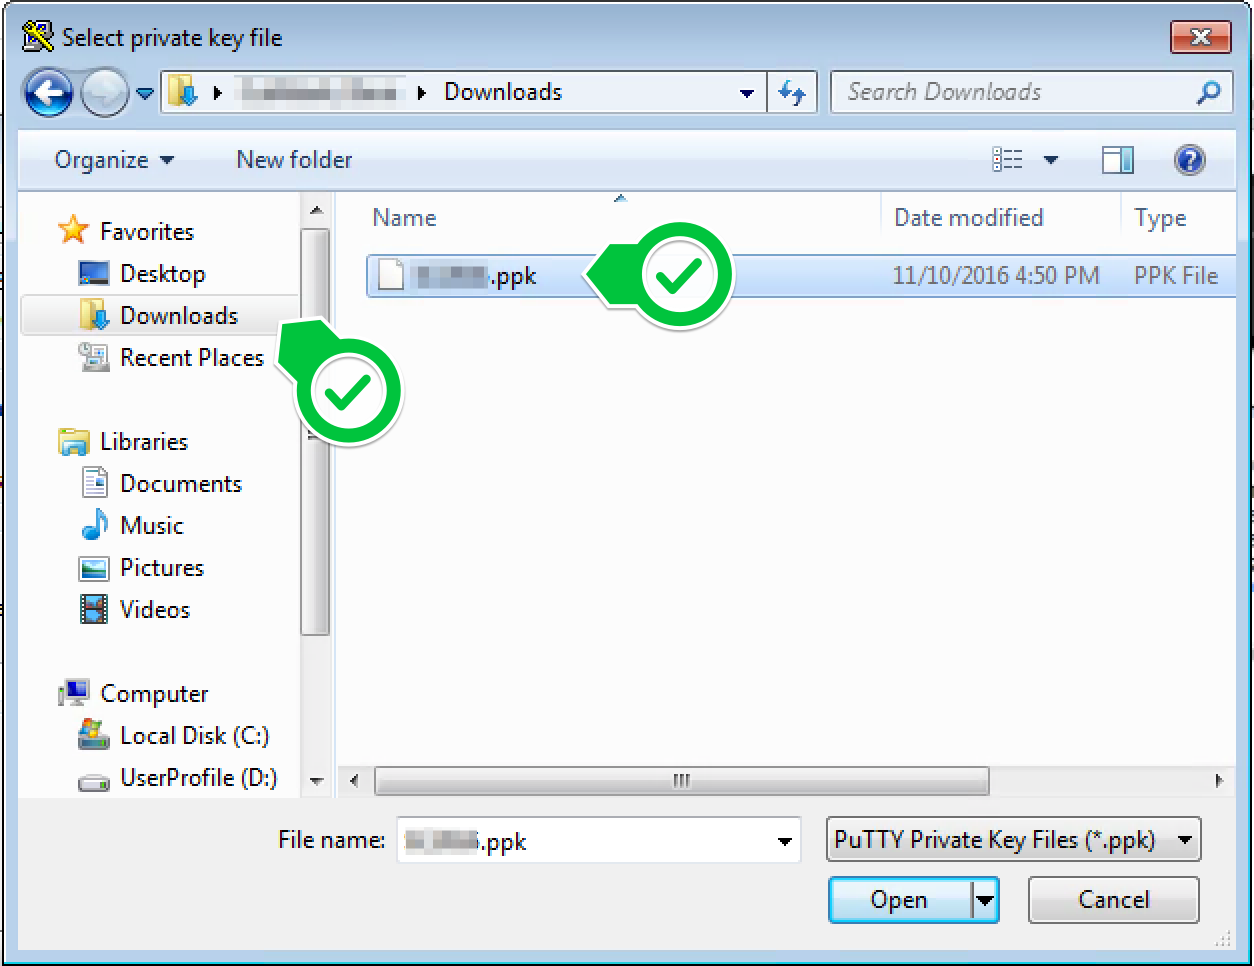
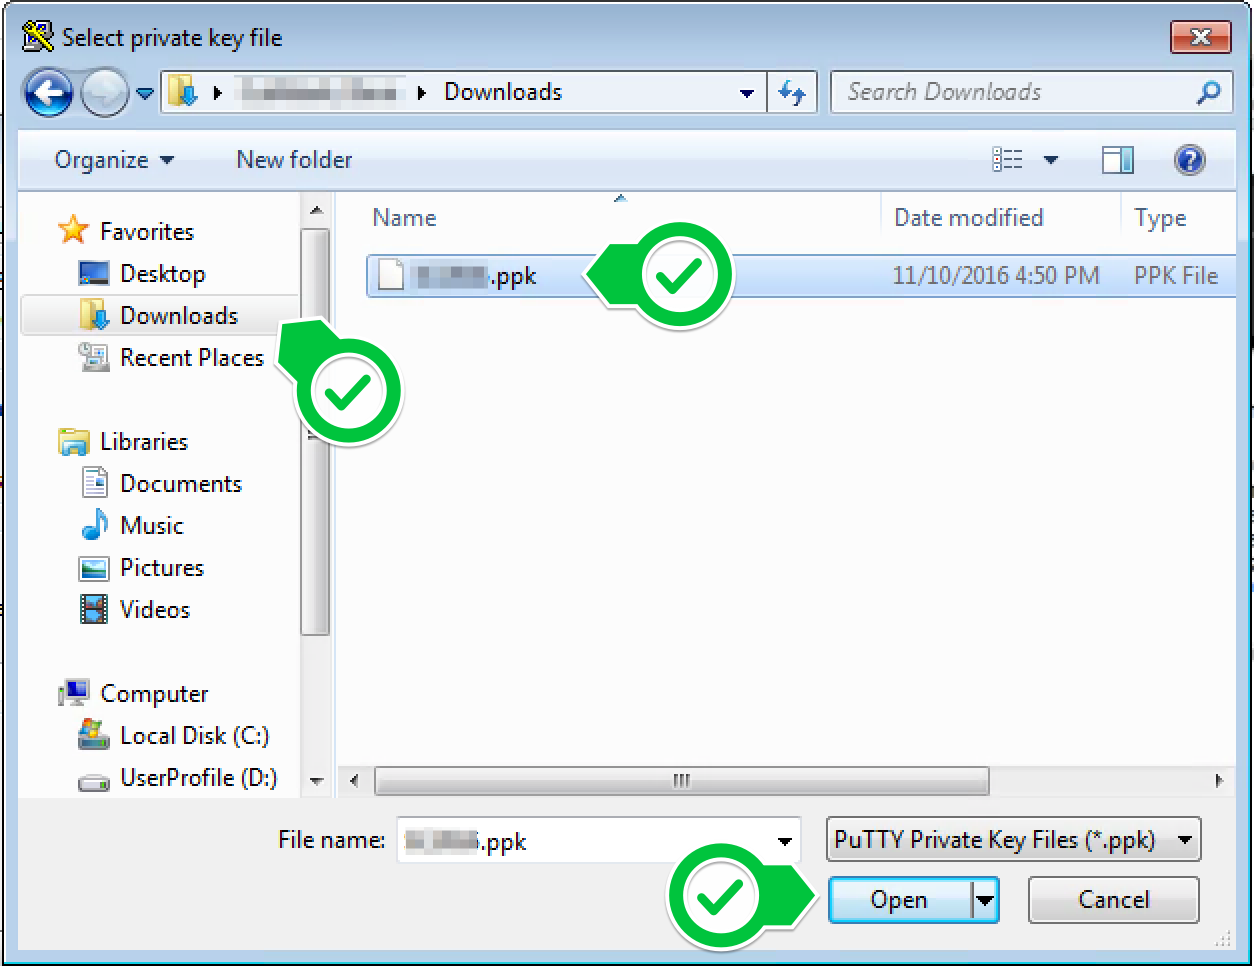
Improve Windows instructions.

Changed region(s): [[0.5287, 0.8696, 0.6531, 0.9938]]

diff --git a/templates/index.html b/templates/index.html
@@ -162,15 +162,16 @@
           <div role="tabpanel" class="tab-pane" id="windows-5">
             <ol start="10">
               <li>In the file dialog, find the SSH key you downloaded in step 1. This will usually be in the <b>Downloads</b> folder and
-                will probably be named <code>{{ user["EventId"] }}.ppk</code><br>
+                will probably be named <code>{{ user["EventId"] }}.ppk</code></li>
+              <li>Click on <b>Open</b>.<br>
                 <img src="{{static_prefix}}images/windows-putty-launch-4.png" width="600" height="462">
               </li>
             </ol>
           </div>
           <div role="tabpanel" class="tab-pane" id="windows-6">
-            <ol start="11">
-              <li>Click on <b>Open</b>. You should be logged in as shown below.<br>
-                <img src="{{static_prefix}}images/windows-putty-launch-5.png" width="600" height="377">
+            <ol start="12">
+              <li>Click on <b>Open</b>. You will then get a shell prompt from your EC2 instance.<br>
+                <img src="{{static_prefix}}images/windows-putty-launch-5.png" width="500" height="480">
               </li>
             </ol>
           </div>
